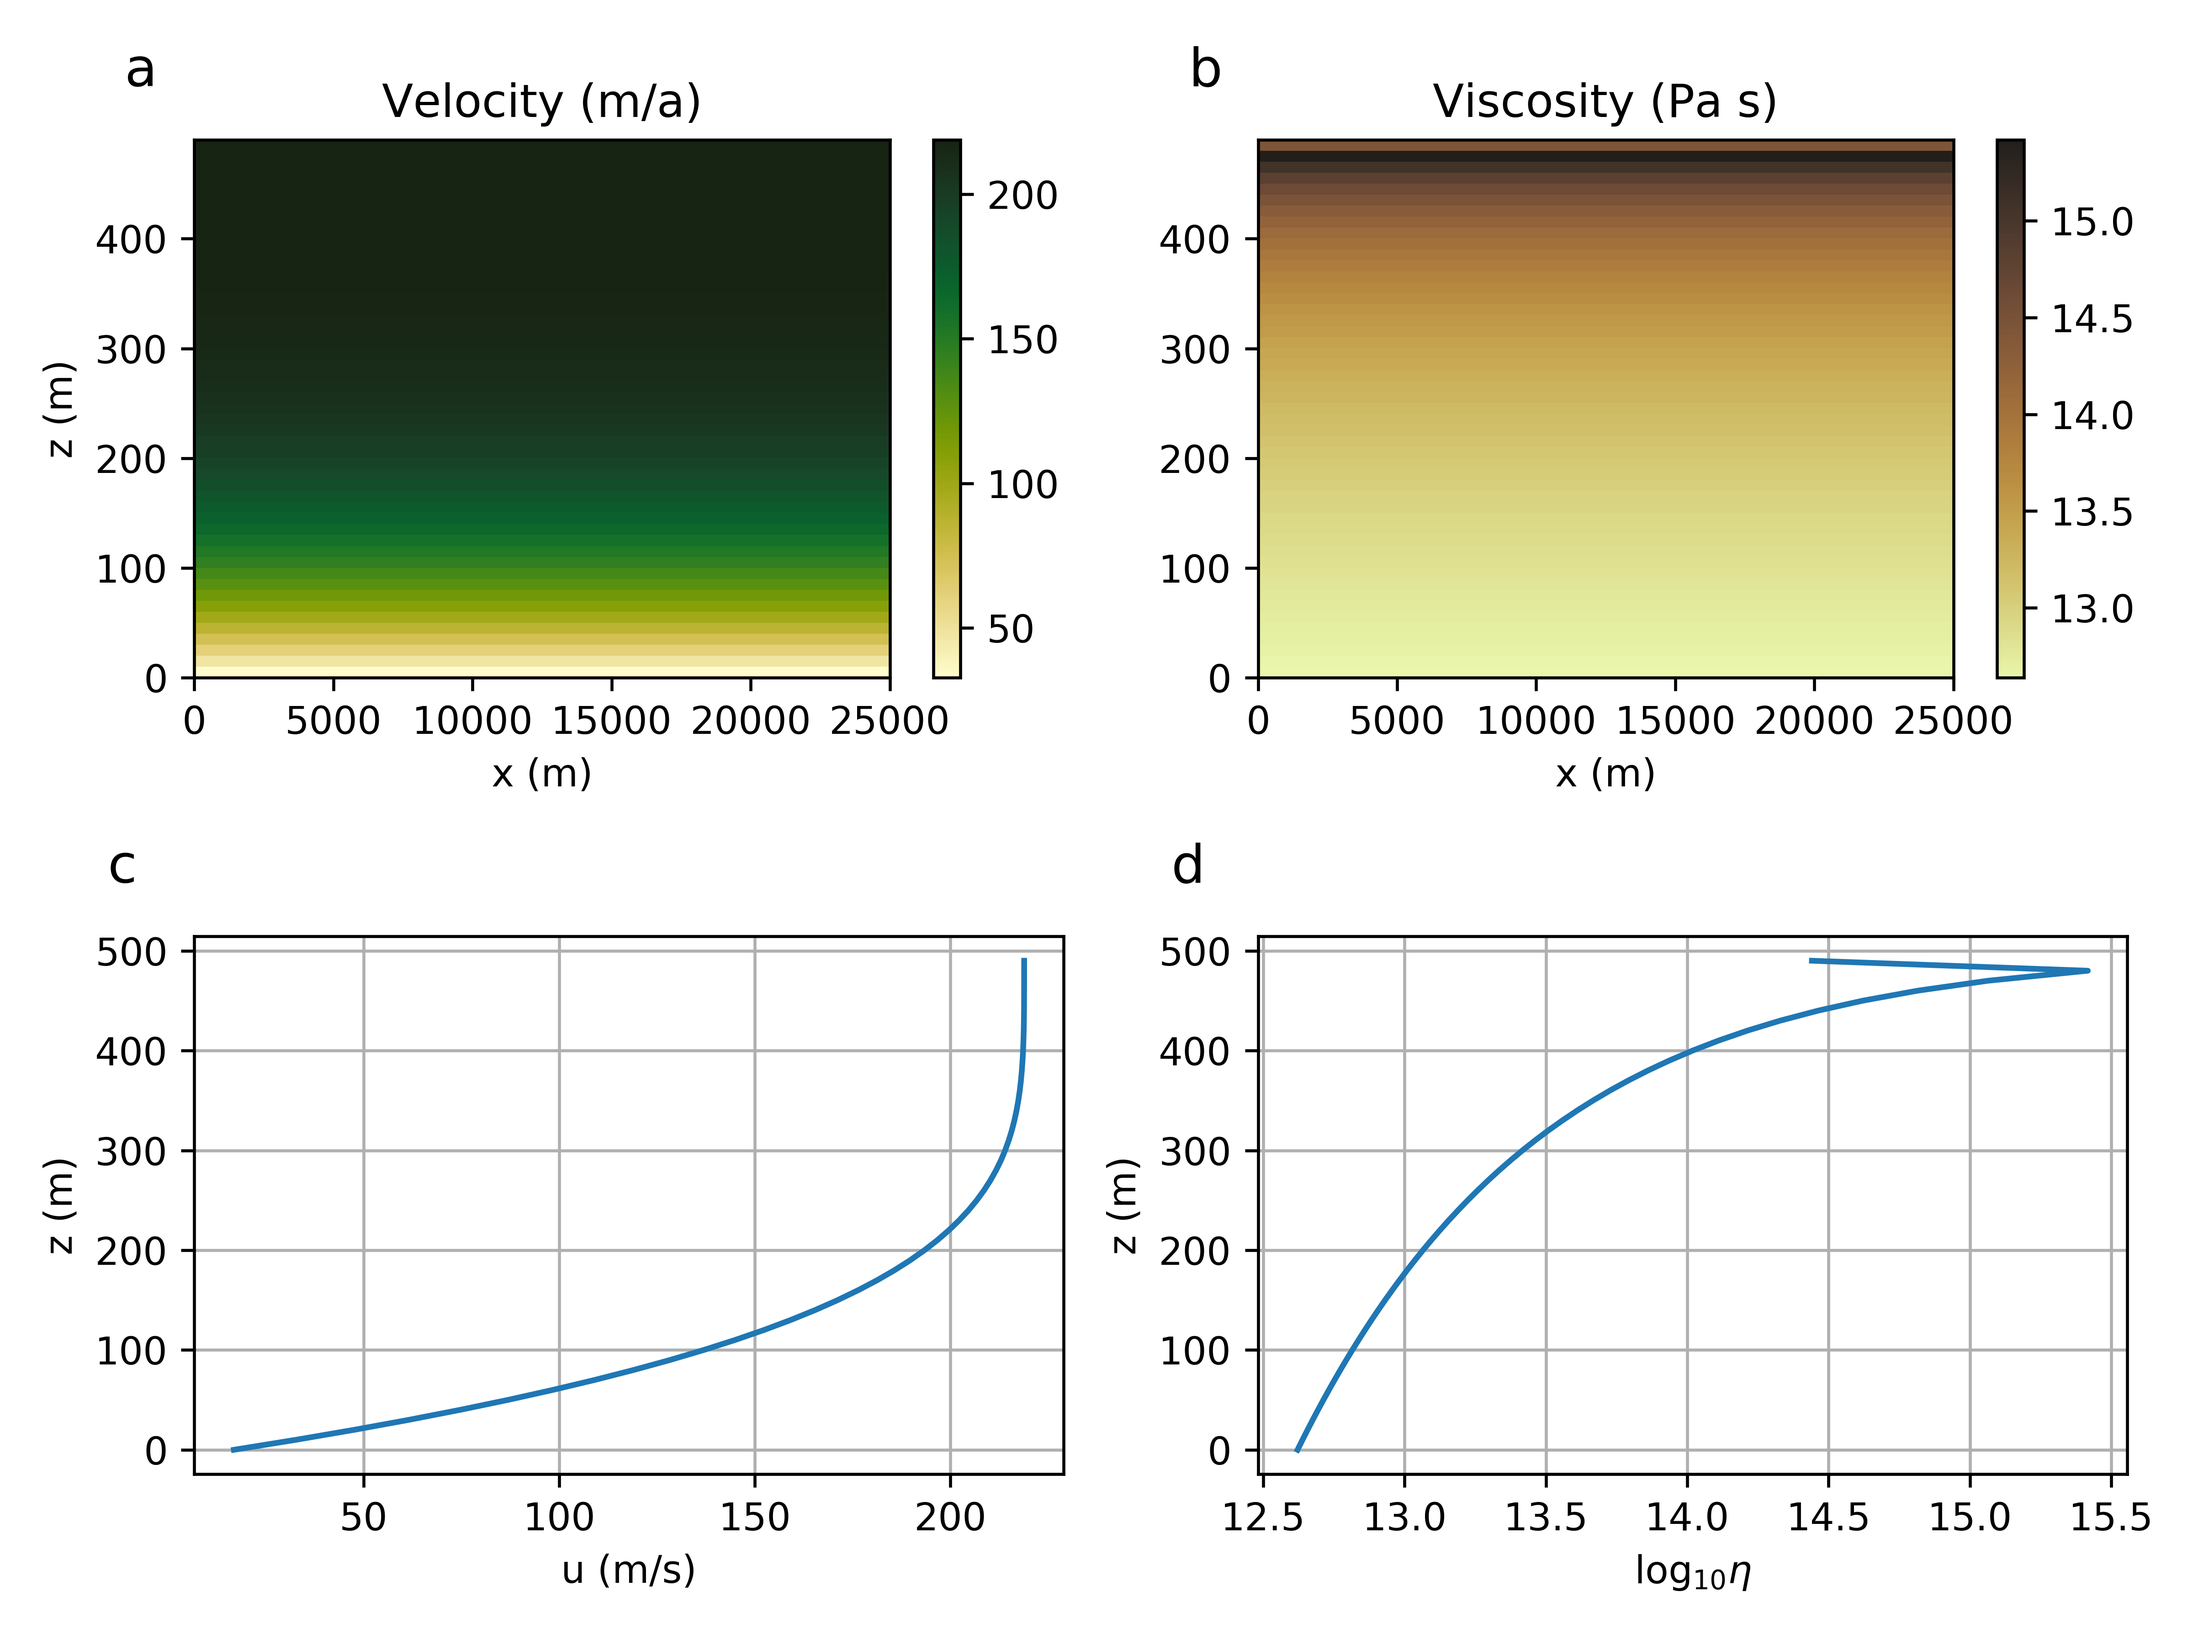
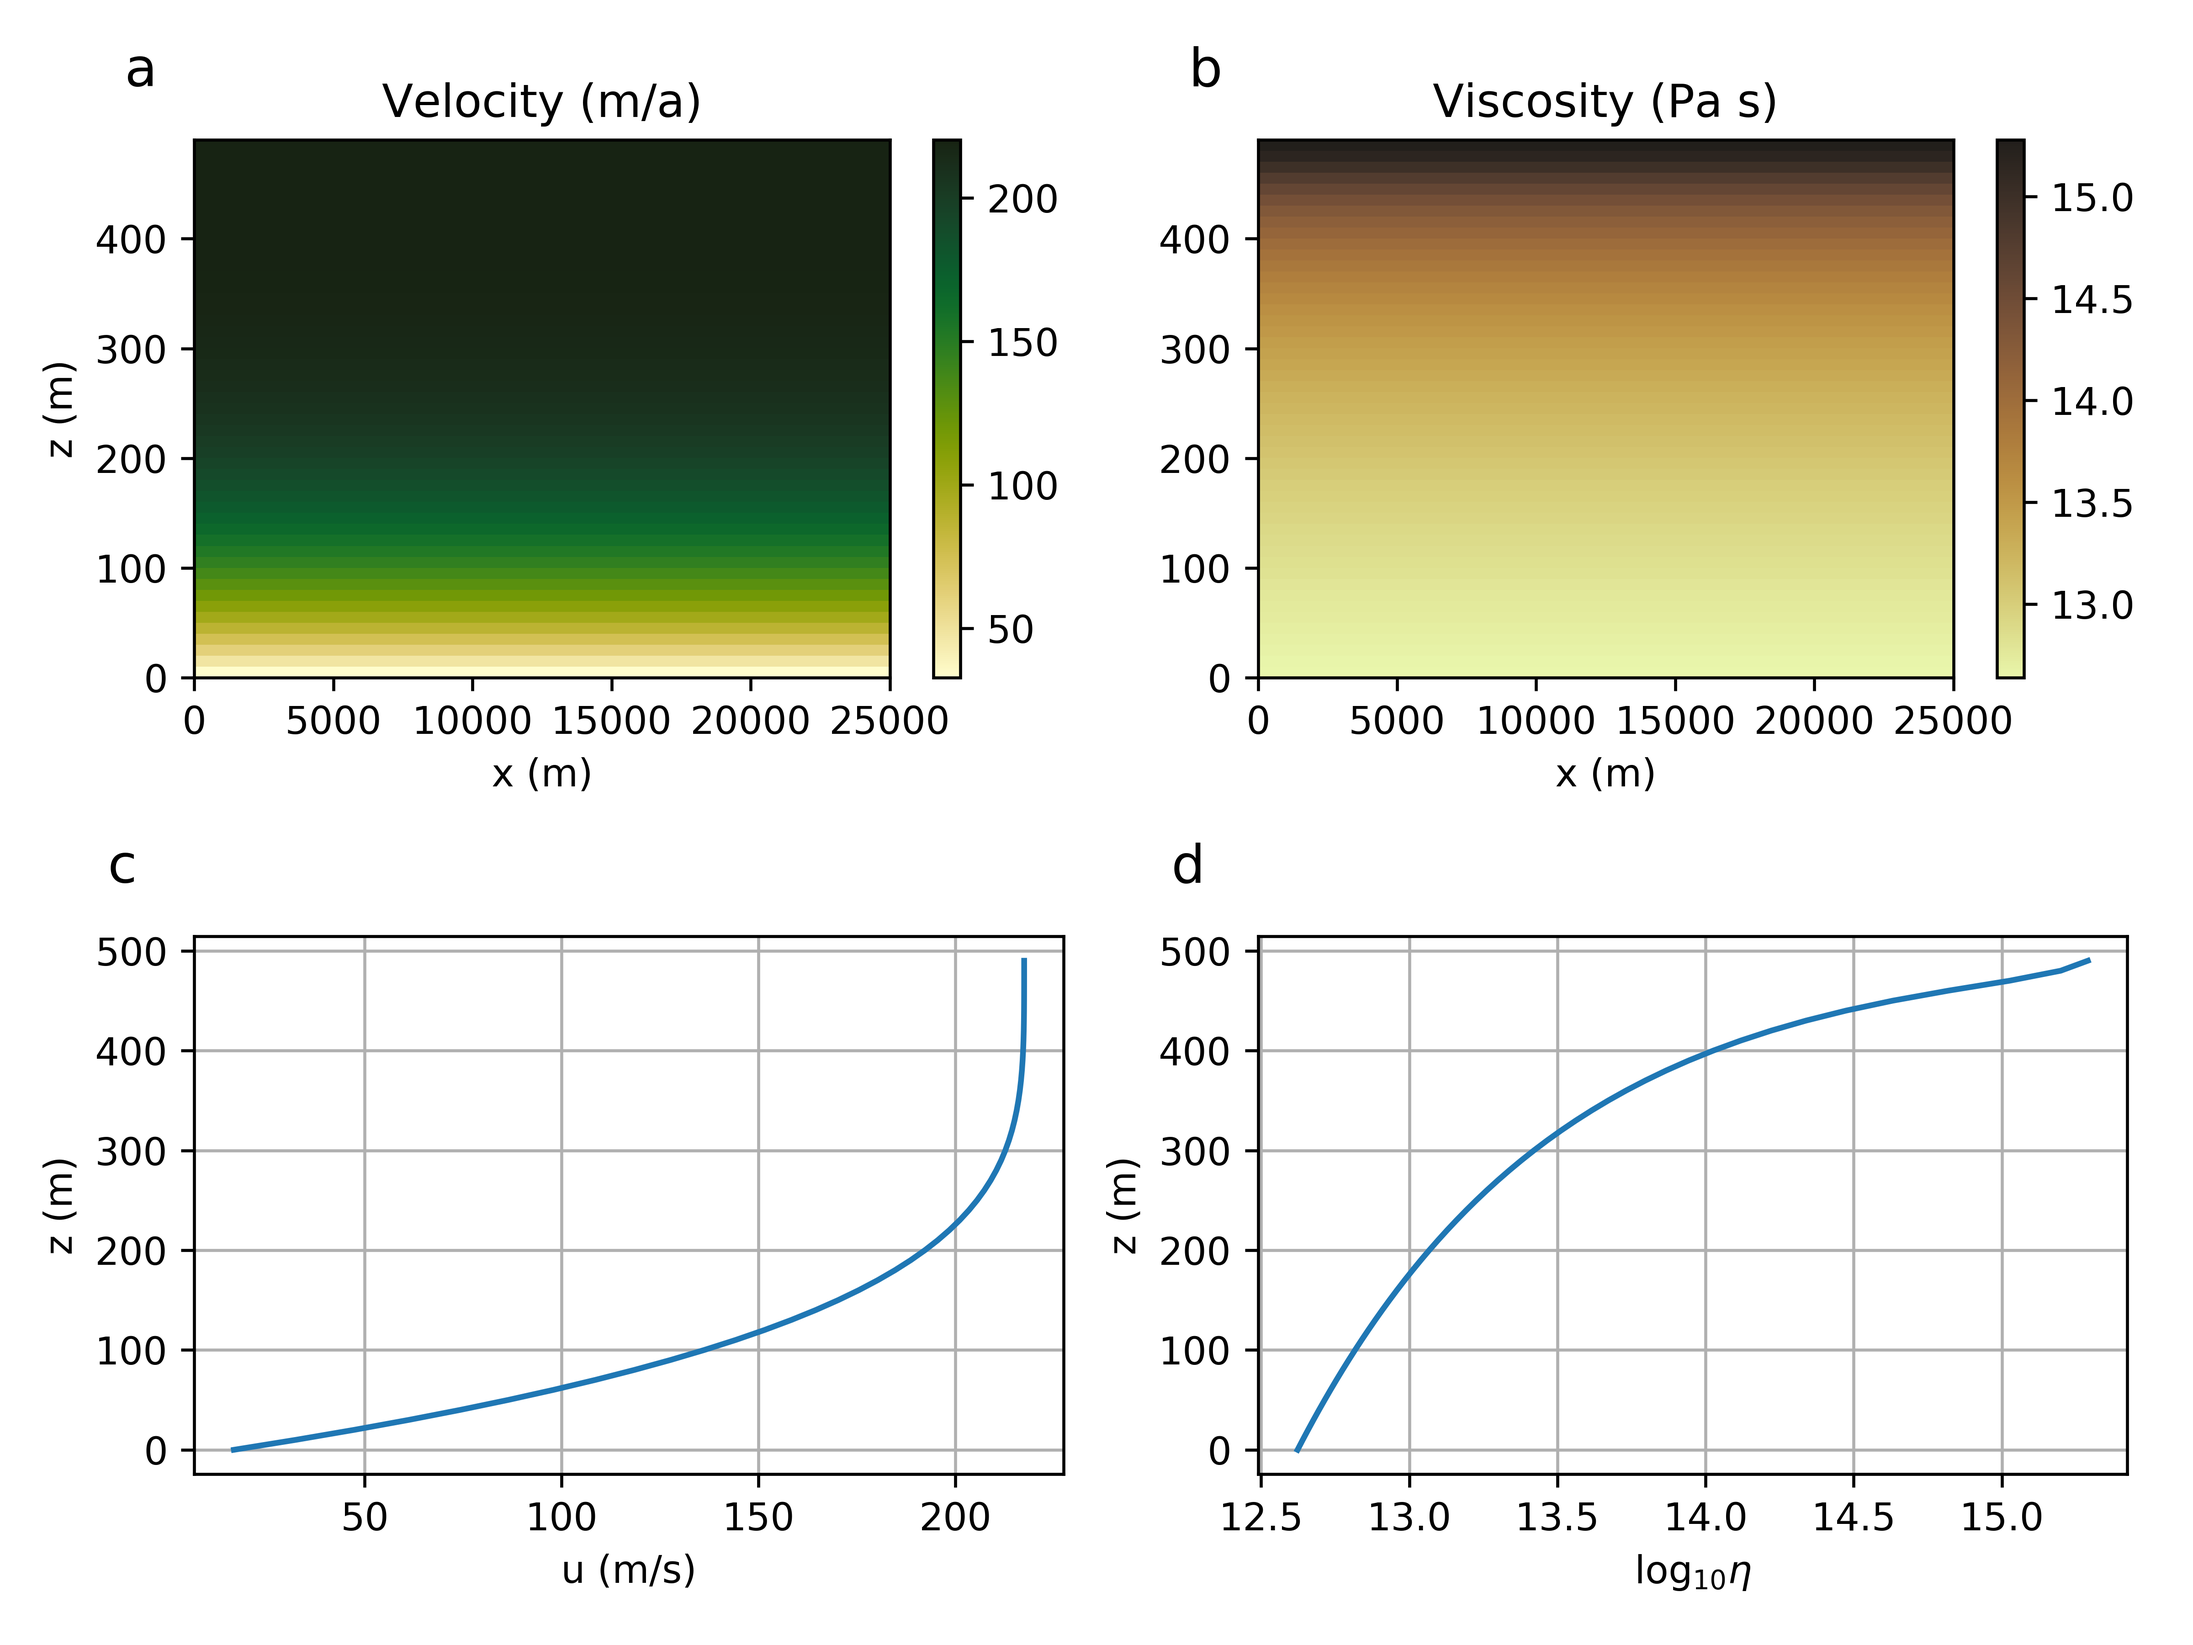
Finalize

diff --git a/Assignment02/blatter_pattyn.py b/Assignment02/blatter_pattyn.py
@@ -154,203 +154,215 @@ def solve_velocity(xm, zetam, h, zs):
     return (u, visco)
 
 if __name__ == '__main__':
+    slab = True
+    valley = True
 
-    """
-    CASE: SLAB GLACIER + SENSITIVITY TESTS
-    """
+    if slab:
+        """
+        CASE: SLAB GLACIER + SENSITIVITY TESTS
+        """
 
-    # PHYSICAL DOMAIN
-    L = 50e3
-    H = 500
+        # PHYSICAL DOMAIN
+        L = 50e3
+        H = 500
 
-    N = 2
-    nz = 20
+        N = 2
+        nz = 20
 
-    N = 2
-    nz = 50
+        N = 2
+        nz = 50
 
-    dx = L/N
-    dz = H/nz
-    dzeta = 1/nz
+        dx = L/N
+        dz = H/nz
+        dzeta = 1/nz
 
-    x = np.arange(0, L, dx)
+        x = np.arange(0, L, dx)
 
-    # IMPOSED GEOMETRY
-    zb = 250 - 0.05*x
-    zs = zb + H
-    # dSdx = -0.05*np.ones(x.shape)
-    h = zs - zb
-    zeta = np.arange(dzeta, 1+dzeta, dzeta)
+        # IMPOSED GEOMETRY
+        zb = 250 - 0.05*x
+        zs = zb + H
+        # dSdx = -0.05*np.ones(x.shape)
+        h = zs - zb
+        zeta = np.arange(dzeta, 1+dzeta, dzeta)
 
-    [xm, zetam] = np.meshgrid(x, zeta)
-    zm = zs - h*zetam
+        [xm, zetam] = np.meshgrid(x, zeta)
+        zm = zs - h*zetam
 
-    u, visco = solve_velocity(xm, zetam, h, zs)
-    visco_arr = np.diag(visco).reshape((nz, N))
+        u, visco = solve_velocity(xm, zetam, h, zs)
+        visco_arr = np.diag(visco).reshape((nz, N))
 
-    # u = u - np.min(u)
-    hm = zm - zb
-    fig, ax = plt.subplots()
-    pc = ax.pcolor(xm, hm, np.log10(visco_arr), cmap=cmocean.cm.turbid)
-    ax.set_title('log_10 viscosity')
-    ax.set_ylabel('z (m)')
-    ax.set_xlabel('x')
-    fig.colorbar(pc)
+        # u = u - np.min(u)
+        hm = zm - zb
+        fig, ax = plt.subplots()
+        pc = ax.pcolor(xm, hm, np.log10(visco_arr), cmap=cmocean.cm.turbid)
+        ax.set_title('log_10 viscosity')
+        ax.set_ylabel('z (m)')
+        ax.set_xlabel('x')
+        fig.colorbar(pc)
 
-    fig, ax = plt.subplots()
-    u_mat = u.reshape((nz, N))
-    pc = ax.pcolor(xm, zetam, u_mat*356*86400)
-    ax.set_title('Velocity (m/a)')
-    ax.set_ylabel('z (m)')
-    ax.set_xlabel('x (m)')
-    fig.colorbar(pc)
+        fig, ax = plt.subplots()
+        u_mat = u.reshape((nz, N))
+        pc = ax.pcolor(xm, zetam, u_mat*356*86400)
+        ax.set_title('Velocity (m/a)')
+        ax.set_ylabel('z (m)')
+        ax.set_xlabel('x (m)')
+        fig.colorbar(pc)
 
-    fig, ax = plt.subplots()
-    pc = ax.pcolor(xm, hm, u_mat*365*86400)
-    ax.set_title('Velocity (m/a)')
-    ax.set_ylabel('z (m)')
-    ax.set_ylabel('x (m)')
-    fig.colorbar(pc)
+        fig, ax = plt.subplots()
+        pc = ax.pcolor(xm, hm, u_mat*365*86400)
+        ax.set_title('Velocity (m/a)')
+        ax.set_ylabel('z (m)')
+        ax.set_ylabel('x (m)')
+        fig.colorbar(pc)
 
-    fig, ((ax1, ax2), (ax3, ax4)) = plt.subplots(figsize=(8, 6), ncols=2, nrows=2)
-    pc = ax1.pcolor(xm, hm, u_mat*365*86400, cmap=cmocean.cm.speed)
-    ax1.set_title('Velocity (m/a)')
-    ax1.set_ylabel('z (m)')
-    ax1.set_xlabel('x (m)')
-    fig.colorbar(pc, ax=ax1)
-    ax1.text(-0.1, 1.1, 'a', transform=ax1.transAxes, fontsize=14)
+        fig, ((ax1, ax2), (ax3, ax4)) = plt.subplots(figsize=(8, 6), ncols=2, nrows=2)
+        pc = ax1.pcolor(xm, hm, u_mat*365*86400, cmap=cmocean.cm.speed)
+        ax1.set_title('Velocity (m/a)')
+        ax1.set_ylabel('z (m)')
+        ax1.set_xlabel('x (m)')
+        fig.colorbar(pc, ax=ax1)
+        ax1.text(-0.1, 1.1, 'a', transform=ax1.transAxes, fontsize=14)
 
-    pc = ax2.pcolor(xm, hm, np.log10(visco_arr), cmap=cmocean.cm.turbid)
-    ax2.set_title('Viscosity (Pa s)')
-    ax2.set_xlabel('x (m)')
-    fig.colorbar(pc, ax=ax2)
-    ax2.text(-0.1, 1.1, 'b', transform=ax2.transAxes, fontsize=14)
+        pc = ax2.pcolor(xm, hm, np.log10(visco_arr), cmap=cmocean.cm.turbid)
+        ax2.set_title('Viscosity (Pa s)')
+        ax2.set_xlabel('x (m)')
+        fig.colorbar(pc, ax=ax2)
+        ax2.text(-0.1, 1.1, 'b', transform=ax2.transAxes, fontsize=14)
 
-    ax3.plot(u_mat[:, 1]*365*86400, hm[:, 1])
-    ax3.set_xlabel('u (m/s)')
-    ax3.set_ylabel('z (m)')
-    ax3.text(-0.1, 1.1, 'c', transform=ax3.transAxes, fontsize=14)
-    ax3.grid()
+        ax3.plot(u_mat[:, 1]*365*86400, hm[:, 1])
+        ax3.set_xlabel('u (m/s)')
+        ax3.set_ylabel('z (m)')
+        ax3.text(-0.1, 1.1, 'c', transform=ax3.transAxes, fontsize=14)
+        ax3.grid()
 
-    ax4.plot(np.log10(visco_arr[:, 1]), hm[:, 1])
-    ax4.set_xlabel('log$_{10}\\eta$')
-    ax4.set_ylabel('z (m)')
-    ax4.text(-0.1, 1.1, 'd', transform=ax4.transAxes, fontsize=14)
-    ax4.grid()
+        ax4.plot(np.log10(visco_arr[:, 1]), hm[:, 1])
+        ax4.set_xlabel('log$_{10}\\eta$')
+        ax4.set_ylabel('z (m)')
+        ax4.text(-0.1, 1.1, 'd', transform=ax4.transAxes, fontsize=14)
+        ax4.grid()
 
-    print(visco_arr[:, 1])
+        print(visco_arr[:, 1])
 
-    plt.tight_layout()
+        plt.tight_layout()
 
-    # fig.savefig('blatter_slab.png', dpi=600)
+        fig.savefig('blatter_slab.png', dpi=600)
 
-    plt.show()
+        plt.show()
 
-    L = 50e3
-    H = 500
+        L = 50e3
+        H = 500
 
-    N = 2
-    nz = 100
+        N = 2
+        nz = 100
 
-    dx = L/N
-    dz = H/nz
-    dzeta = 1/nz
+        dx = L/N
+        dz = H/nz
+        dzeta = 1/nz
 
-    x = np.arange(0, L, dx)
+        x = np.arange(0, L, dx)
 
-    # IMPOSED GEOMETRY
-    zb = 250 - 0.05*x
-    zs = zb + H
-    dSdx = -0.05*np.ones(x.shape)
-    h = zs - zb
-    zeta = np.arange(0, 1, dzeta)
+        # IMPOSED GEOMETRY
+        zb = 250 - 0.05*x
+        zs = zb + H
+        dSdx = -0.05*np.ones(x.shape)
+        h = zs - zb
+        zeta = np.arange(0, 1, dzeta)
 
-    [xm, zetam] = np.meshgrid(x, zeta)
-    zm = zs - h*zetam
-    # hm2 = zm - zb - dz
+        [xm, zetam] = np.meshgrid(x, zeta)
+        zm = zs - h*zetam
+        # hm2 = zm - zb - dz
 
-    hm2 = zm - zb
+        hm2 = zm - zb
 
-    u_hr, visco_hr = solve_velocity(xm, zetam, h, zs)
+        u_hr, visco_hr = solve_velocity(xm, zetam, h, zs)
 
-    fig, ax = plt.subplots()
-    pc = ax.pcolor(xm, zetam, u_hr.reshape((nz, N)))
-    fig.colorbar(pc)
-    ax.set_title('Raw zeta velocity')
+        fig, ax = plt.subplots()
+        pc = ax.pcolor(xm, zetam, u_hr.reshape((nz, N)))
+        fig.colorbar(pc)
+        ax.set_title('Raw zeta velocity')
 
-    # print(np.min(u_hr))
-    # u_hr = u_hr - np.min(u_hr)
-    u_mat2 = u_hr.reshape((nz, N))
+        # print(np.min(u_hr))
+        # u_hr = u_hr - np.min(u_hr)
+        u_mat2 = u_hr.reshape((nz, N))
 
-    fig, ax = plt.subplots()
-    ax.plot(u_mat[:, 1]*365*86400, hm[:, 1], label='$\\Delta z = 10 \\mathrm{m}$')
-    ax.plot(u_mat2[:, 1]*365*86400, hm2[:, 1], label='$\\Delta z = 2 \\mathrm{m}$')
+        fig, ax = plt.subplots()
+        ax.plot(u_mat[:, 1]*365*86400, hm[:, 1], label='$\\Delta z = 10 \\mathrm{m}$')
+        ax.plot(u_mat2[:, 1]*365*86400, hm2[:, 1], label='$\\Delta z = 2 \\mathrm{m}$')
 
-    u_theory = 2*A*(rho*g)**n/(n+1) * (H**(n+1) - (H - hm[:, 1])**(n+1)) * (0.05)**n
-    ax.plot(u_theory*365*86400, hm[:, 1], label='Exact')
+        u_theory = 2*A*(rho*g)**n/(n+1) * (H**(n+1) - (H - hm[:, 1])**(n+1)) * (0.05)**n
+        ax.plot(u_theory*365*86400, hm[:, 1], label='Exact')
 
-    print(u_mat[0, 1]/u_theory[0])
-    print(u_mat2[0, 1]/u_theory[0])
+        print(u_mat[0, 1]/u_theory[0])
+        print(u_mat2[0, 1]/u_theory[0])
 
-    ax.legend()
-    ax.set_xlabel('u (m/a)')
-    ax.set_ylabel('z (m)')
-    ax.grid()
+        ax.legend()
+        ax.set_xlabel('u (m/a)')
+        ax.set_ylabel('z (m)')
+        ax.grid()
 
-    fig.savefig('blatter_slab_profile.png', dpi=600)
+        fig.savefig('blatter_slab_profile.png', dpi=600)
 
-    plt.show()
+        plt.show()
 
+    if valley:
 
+        """
+        CASE: VALLEY GLACIER
+        """
 
-    """
-    CASE: VALLEY GLACIER
-    """
-    """
-    L = 10e3
-    N = 40
-    nz = 20
+        L = 10e3
+        N = 25
+        nz = 20
 
-    dx = L/N
-    x = np.arange(0, L, dx)
+        dx = L/N
+        x = np.arange(0, L, dx)
 
-    dzeta = 1/nz
-    zeta = np.arange(0, 1, dzeta)
+        dzeta = 1/nz
+        zeta = np.arange(0, 1, dzeta)
 
-    xm, zetam = np.meshgrid(x, zeta)
+        xm, zetam = np.meshgrid(x, zeta)
 
-    zb = 1500 + 750*(x-7.5e3)*(x-5e3)/(7.5e3*5e3)
-    zs = 2300 - 0.05*x
+        zb = 1500 + 750*(x-7.5e3)*(x-5e3)/(7.5e3*5e3)
+        zs = 2300 - 0.05*x
 
-    h = zs - zb
-    zm = zs - h*zetam
+        h = zs - zb
+        zm = zs - h*zetam
 
-    fig, ax = plt.subplots()
-    ax.plot(x, zb, 'k')
-    ax.plot(x, zs)
+        u, visco = solve_velocity(xm, zetam, h, zs)
 
-    u, visco = solve_velocity(xm, zetam, h, zs)
+        u_mat = u.reshape((nz, N))
+        _year = 365*86400
+        fig, ax = plt.subplots()
+        pc = ax.pcolor(xm, zetam, u_mat*_year, cmap=cmocean.cm.speed)
+        fig.colorbar(pc)
 
-    u_mat = u.reshape((nz, N))
-    _year = 365*86400
-    fig, ax = plt.subplots()
-    pc = ax.pcolor(xm, zetam, u_mat*_year, cmap=cmocean.cm.speed)
-    fig.colorbar(pc)
+        fig, (ax, ax2) = plt.subplots(figsize=(8, 4), ncols=2)
+        pc = ax.pcolor(xm/1e3, zm, u_mat*_year, cmap=cmocean.cm.speed)
+        cbar = fig.colorbar(pc, ax=ax)
+        cbar.set_label('Velocity (m/a)')
+        ax.set_xlabel('x (km)')
+        ax.set_ylabel('z (m)')
+        ax.text(-0.2, 1.1, 'a', transform=ax.transAxes, fontsize=14)
+        z_base = zm[-1, :]
+        z_lower = 1400*np.ones(z_base.shape)
+        # ax.plot(x/1e3, zm[-1, :], 'k')
+        ax.fill_between(x/1e3, z_lower, z_base, facecolor=0.5*np.ones(3))
 
-    fig, ax = plt.subplots()
-    pc = ax.pcolor(xm/1e3, zm, u_mat*_year, cmap=cmocean.cm.speed)
-    cbar = fig.colorbar(pc)
-    cbar.set_label('Velocity (m/a)')
-    ax.set_xlabel('x (km)')
-    ax.set_ylabel('z (m)')
-    z_base = zm[0, :]
-    z_lower = 1400*np.ones(z_base.shape)
-    # ax.plot(x/1e3, zm[-1, :], 'k')
-    # ax.fill_between(x/1e3, z_lower, z_base, facecolor=0.5*np.ones(3))
+        ax.set_ylim([1400, 2400])
 
-    ax.set_ylim([1400, 2400])
+        kk = 10
+        hm = zm - zb
+        H = h[kk]
+        # hi = hm[:, 20]
+        u_theory =  2*A*(rho*g)**n/(n+1) * (H**(n+1) - (H - hm[:, kk])**(n+1)) * (0.05)**n
+        ax2.plot(u_theory*_year, hm[:, kk], label='SIA')
+        ax2.plot(u_mat[:, kk]*_year, hm[:, kk], label='BP')
+        ax2.set_xlabel('u (m/a)')
+        ax2.set_ylabel('z - z$_b$(m)')
+        ax2.grid()
+        ax2.legend()
+        ax2.text(-0.2, 1.1, 'b', transform=ax2.transAxes, fontsize=14)
+        plt.tight_layout()
 
-    fig.savefig('blatter_valley.png', dpi=600)
-
-    plt.show()
-    """
+        fig.savefig('blatter_valley.png', dpi=600)
+        plt.show()
